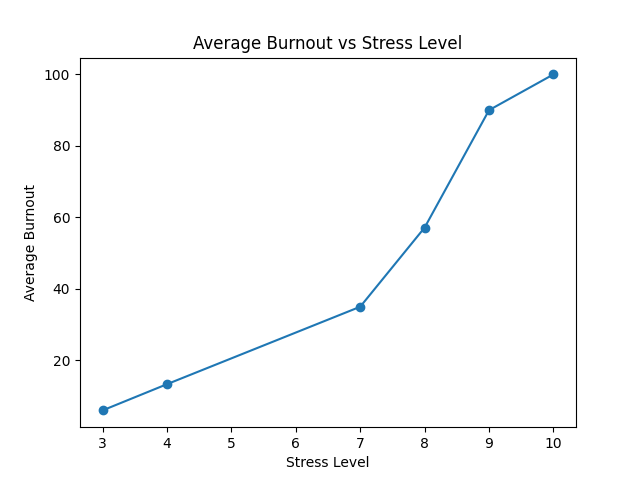
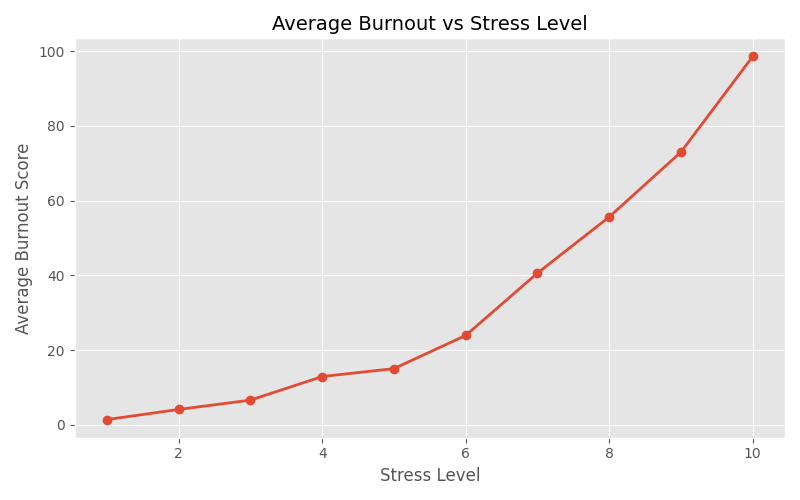
Improved graph and dataset

diff --git a/templates/dashboard.html b/templates/dashboard.html
@@ -64,11 +64,11 @@
                 </div>
                 <div class="chart-container">
                     <h3>Average Burnout vs Stress Level</h3>
-                    <img src="{{ url_for('static', filename='plots/stress_vs_burnout.png') }}?v={{ total_records }}" alt="Stress vs Burnout">
+                    <img src="{{ url_for('static', filename='plots/stress_vs_burnout.png') }}" alt="Stress vs Burnout">
                 </div>
                 <div class="chart-container">
-                    <h3>Sleep vs Burnout</h3>
-                    <img src="{{ url_for('static', filename='plots/sleep_vs_burnout.png') }}" alt="Sleep vs Burnout">
+                    <h3>Feature Correlation Heatmap</h3>
+                    <img src="{{ url_for('static', filename='plots/correlation_heatmap.png') }}" alt="Correlation HeatMap">
                 </div>
             </div>
         </div>

diff --git a/app.py b/app.py
@@ -4,10 +4,13 @@ import numpy as np
 import matplotlib
 matplotlib.use('Agg')
 import matplotlib.pyplot as plt
+#Use a clean style for plots
+plt.style.use('ggplot')
 import os
 import json
 from nltk.sentiment import SentimentIntensityAnalyzer
 import nltk
+import seaborn as sns
 
 # Ensure NLTK data is downloaded once
 try:
@@ -92,7 +95,9 @@ def process_data():
     else:
         data_df['sentiment_score'] = 0
     
-    #CORRELATION ANALYSIS
+    # Correlation analysis checks how strongly variables are related
+    # Example: Does less sleep correlate with higher burnout?
+    # It calculates correlation values between numeric features
 
     numericc_cols = ['sleep_hours', 'study_hours', 'stress_level','burnout_score']
     available_cols=[col for col in numericc_cols if col in data_df.columns]
@@ -108,50 +113,87 @@ def dashboard():
         return redirect(url_for('index'))
     
     # Generate plots
-    plot_dir = 'static/plots'
+    plot_dir = os.path.join(app.static_folder, 'plots')
     os.makedirs(plot_dir, exist_ok=True)
     
     # Histogram of burnout scores
-    plt.figure()
-    data_df['burnout_score'].hist(bins=20)
-    plt.title('Burnout Score Distribution')
+    # Histogram to see how burnout scores are distributed among students
+    #This helps identify whether most students are low, medium, or highly burned out
+
+    plt.figure(figsize=(8,5))
+    plt.hist(data_df['burnout_score'], bins=20, color='steelblue', edgecolor='black')
+    plt.title('Burnout Score Distribution', fontsize=14)
     plt.xlabel('Burnout Score')
-    plt.ylabel('Frequency')
+    plt.ylabel('Number of Students')
+    plt.tight_layout()
     plt.savefig(os.path.join(plot_dir, 'score_hist.png'))
     plt.close()
+  
     
     # Pie chart of risk
+    # Pie chart showing percentage of students in each burnout risk category
+    # Pie chart showing burnout risk distribution
     risk_counts = data_df['risk'].value_counts()
-    plt.figure()
+
+    plt.figure(figsize=(4,4))   # smaller figure
+
     if not risk_counts.empty:
-        risk_counts.plot.pie(autopct='%1.1f%%')
-    plt.title('Risk Categories')
+        risk_counts.plot.pie(
+            autopct='%1.1f%%',
+            colors=["#e28e0f", "#B80E0E","#2323D0"],  # reddish, brown, blue
+            startangle=90,
+            textprops={'fontsize':10}
+        )
+
+    plt.title('Burnout Risk Distribution', fontsize=12)
     plt.ylabel('')
+    plt.tight_layout()
+
     plt.savefig(os.path.join(plot_dir, 'risk_pie.png'))
     plt.close()
+    
 
     #ADDITIONAL GRAPH STRESS VS BURNOUT
     if 'stress_level' in data_df.columns and 'burnout_score' in data_df.columns:
         grouped=data_df.groupby('stress_level')['burnout_score'].mean()
         if not grouped.empty:
-            plt.figure()
-            grouped.plot(marker='o')
-            plt.title('Average Burnout vs Stress Level')
+        
+            # Line graph showing how average burnout changes with stress level
+            # This helps analyze whether higher stress leads to higher burnout
+            plt.figure(figsize=(8,5))
+            grouped.plot(marker='o', linewidth=2)
+            plt.title('Average Burnout vs Stress Level', fontsize=14)
             plt.xlabel("Stress Level")
-            plt.ylabel("Average Burnout")
+            plt.ylabel("Average Burnout Score")
+
+            plt.grid(True)
+            plt.tight_layout()
             plt.savefig(os.path.join(plot_dir,"stress_vs_burnout.png"))
             plt.close()
-    #ADDITIONAL GRAPH SLEEP VS BURNOUT
-    if 'sleep_hours' in data_df.columns and 'burnout_score' in data_df.columns:
-            plt.figure()
-            plt.scatter(data_df['sleep_hours'],data_df["burnout_score"])
 
-            plt.title('Sleep Hours vs Burnout Score')
-            plt.xlabel("Sleep Hours")
-            plt.ylabel("Burnout Score")
-            plt.tight_layout()
-            plt.savefig(os.path.join(plot_dir,"sleep_vs_burnout.png"))
-            plt.close()
+            
+    # -------- CORRELATION HEATMAP --------
+    # Heatmap visually shows relationships between numeric features
+    # It helps identify which variables influence burnout the most
+
+    if corr_matrix is not None:
+
+        plt.figure(figsize=(8,6))
+
+        sns.heatmap(
+            corr_matrix,
+            annot=True,        # show correlation numbers inside cells
+            cmap='coolwarm',   # red-blue color scale
+            fmt=".2f",
+            linewidths=0.5
+        )
+        plt.title("Feature Correlation Heatmap")
+
+        plt.tight_layout()
+        plt.savefig(os.path.join(plot_dir, "correlation_heatmap.png"))
+        plt.close()
+    
+            
 
 
     # Compute stats
